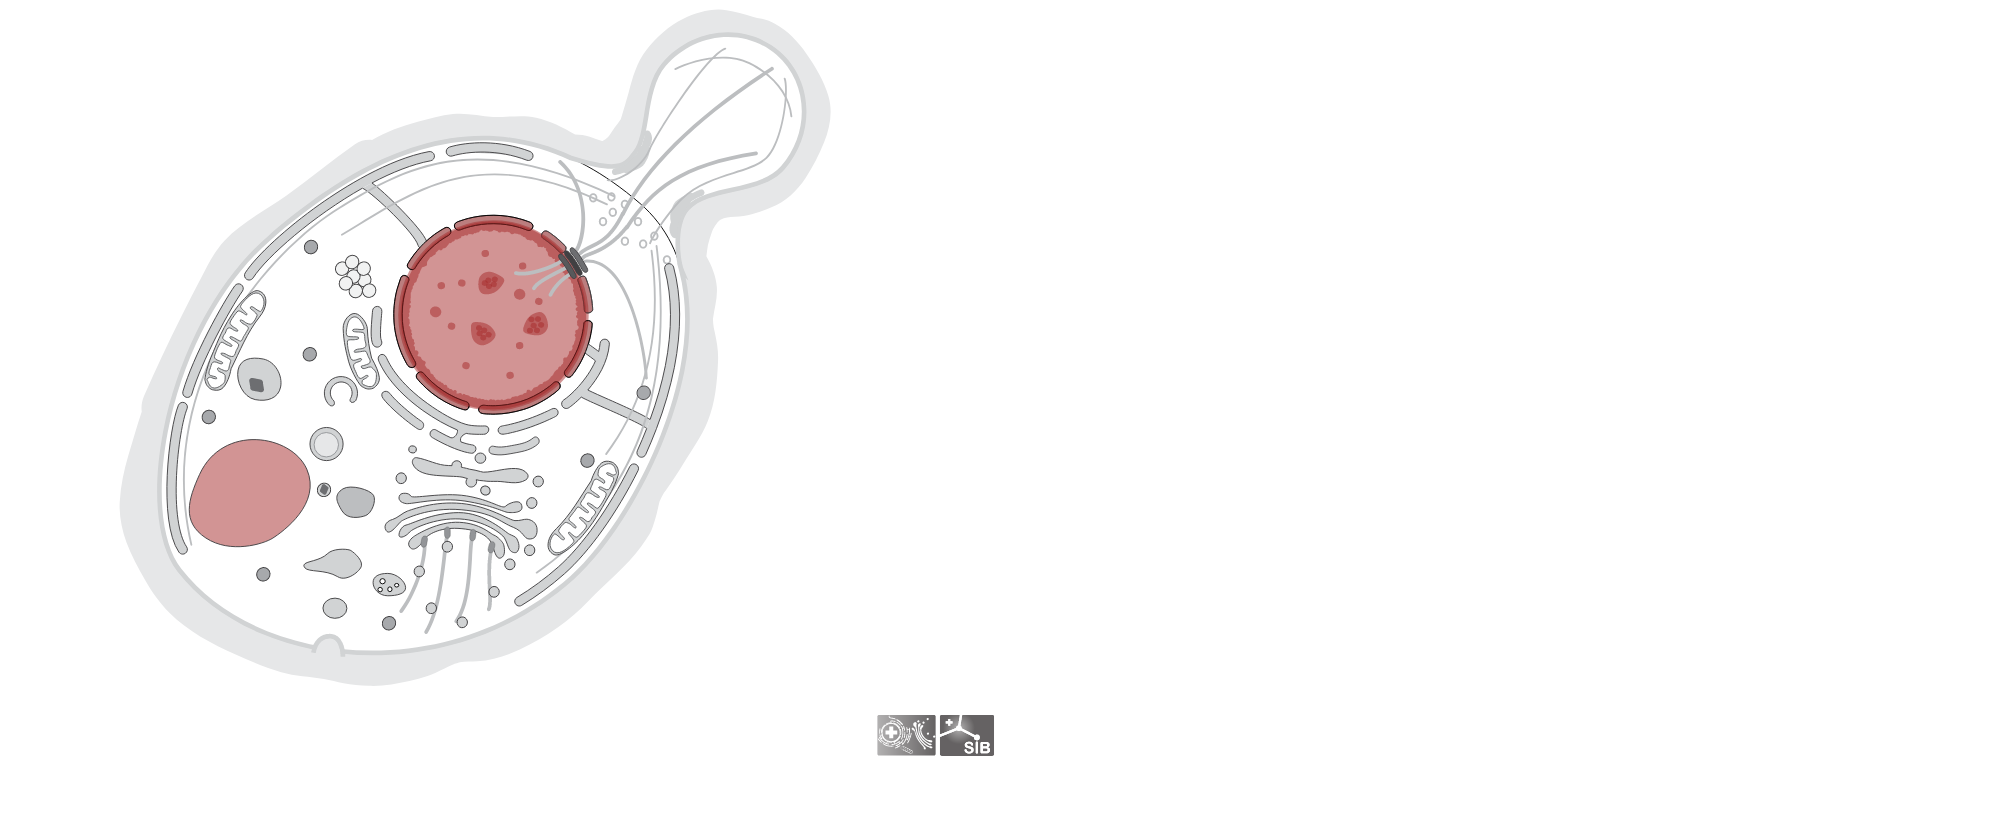
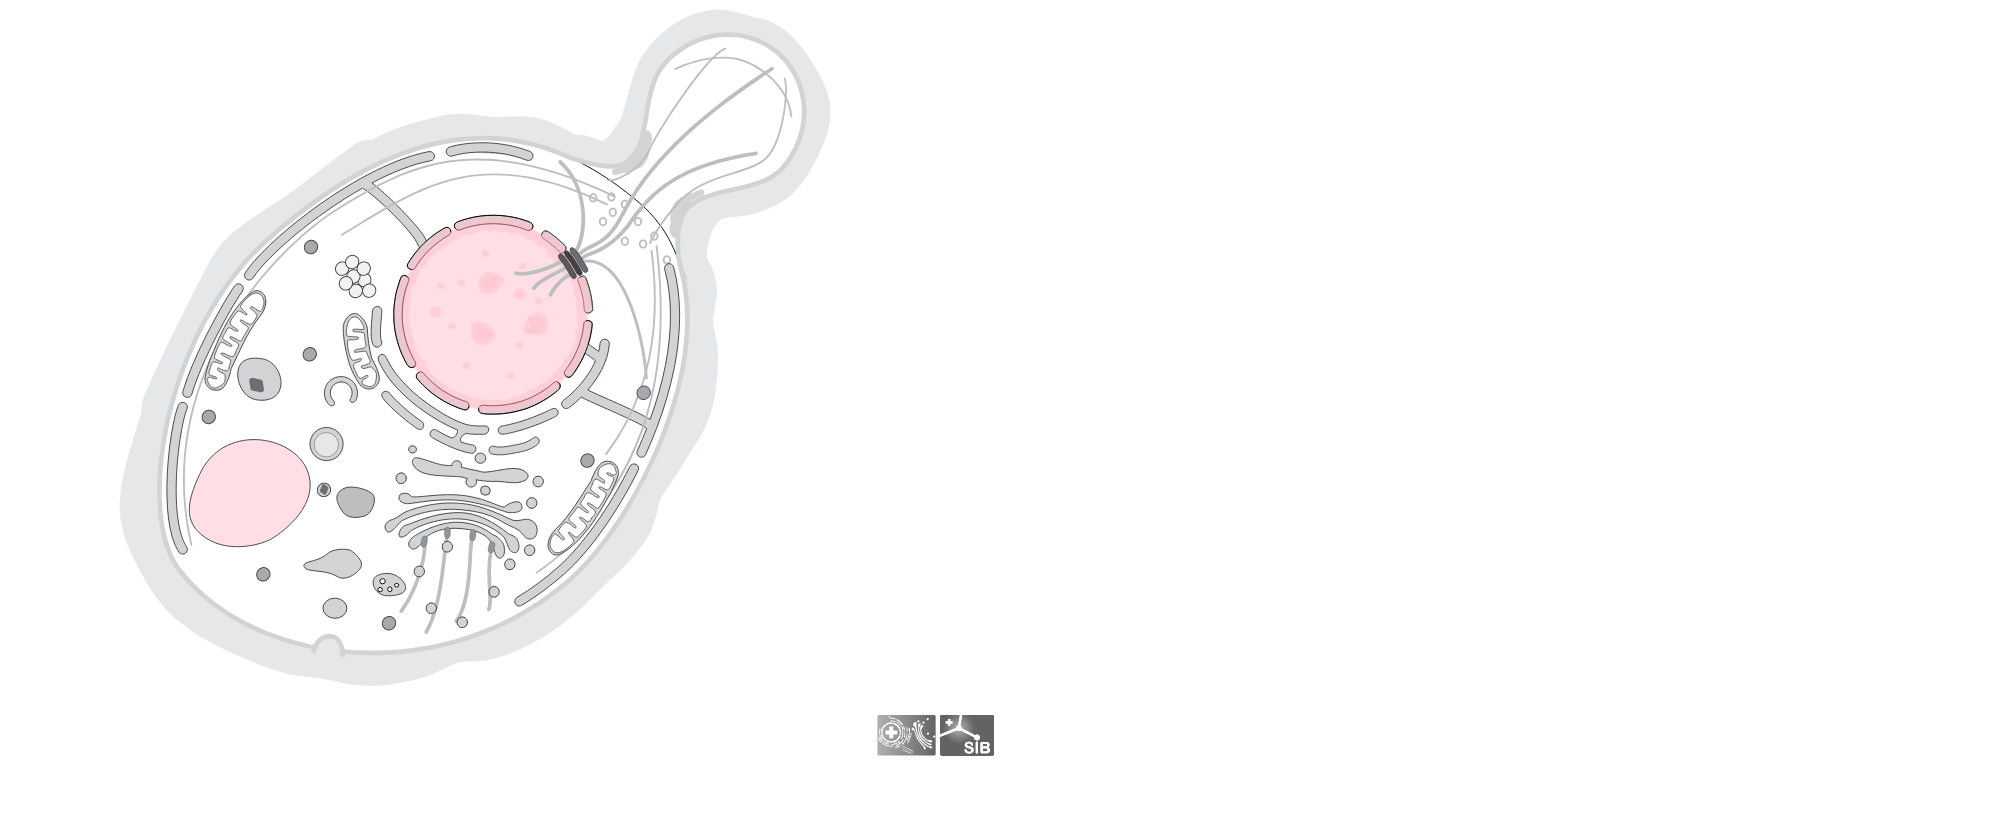
troubleshooting

Changed region(s): [[0.186, 0.243, 0.31, 0.5164], [0.093, 0.5164, 0.155, 0.6683]]

diff --git a/README.md b/README.md
@@ -53,7 +53,7 @@ For the baker’s yeast *Saccharomyces cerevisiae* whose taxonomy id is
 `4932` we will highlight the nucleus: `0191` and the vacuole: `0272`.
 
 ``` r
-drawCell(taxonomy_id = '4932', sl_ids = c('0191', '0272'))
+drawCell(taxonomy_id = '4932', sl_ids = c('0191', '0272'), color = 'pink')
 ```
 
 <img src="man/figures/sacc2.png" width="100%" />
